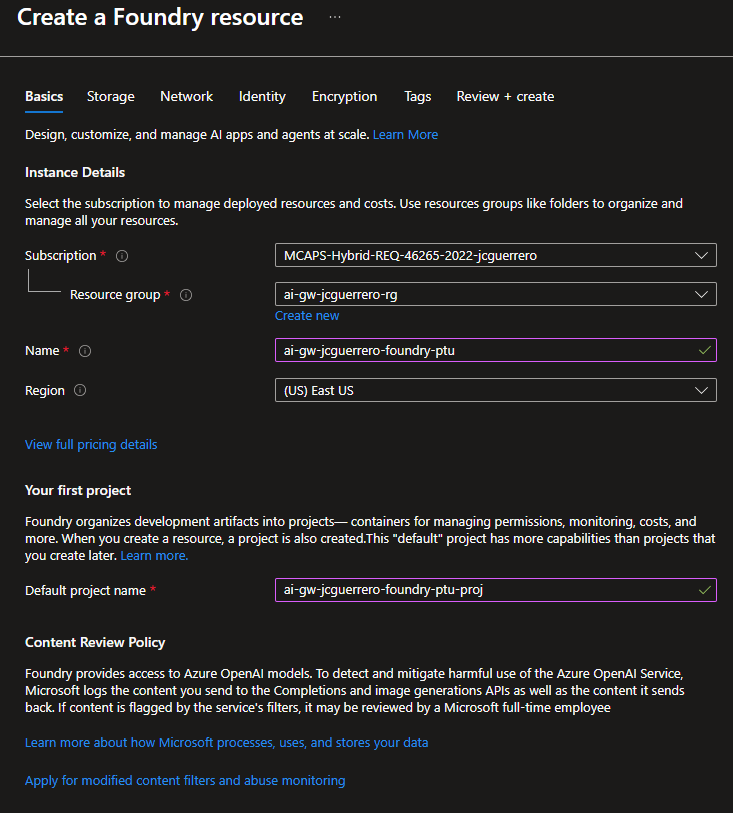
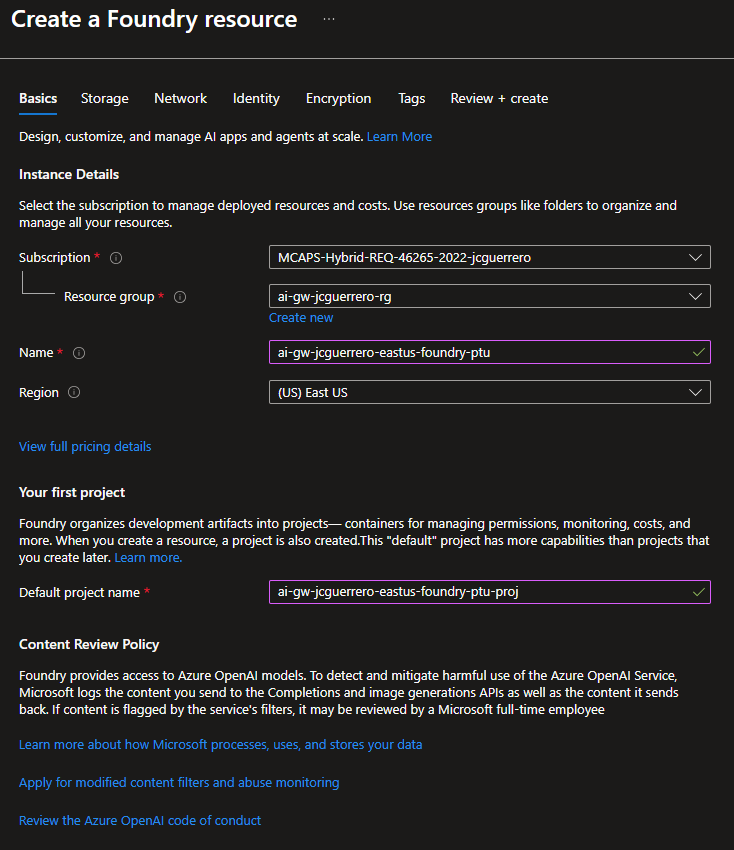
Add resources documentation for Foundry instances setup in multiple regions

diff --git a/docs/tutorial/01/resources.md b/docs/tutorial/01/resources.md
@@ -1,0 +1,190 @@
+# Create Foundry Instances
+
+## Stacks
+
+| Resource                | Primary                     | Secondary                    |
+| ----------------------- | --------------------------- | ---------------------------- |
+| Region                  | `eastus`                    | `eastus2`                    |
+| Log Analytics Workspace | `-eastus-law`               | -`eastus2-law`               |
+| App Insights            | `-eastus-appi`              | -`eastus2-appi`              |
+| Foundry Instances       | `-eastus-foundry-{purpose}` | -`eastus2-foundry-{purpose}` |
+
+## Log Analytics Workspace
+
+![LAW](../../../assets/img/resources/law.png)
+
+We will funnel of our logs into App Insights for monitoring and diagnostics, using log analytics workspace.
+
+Since Foundry will be deployed across multiple regions, it is considered best practice to create Log Analytics Workspace in each region to collect and analyze logs.
+
+For tutorial purposes, you can create only 1 Log Analytics Workspace + App Insights, however, we wanted to call it out.
+
+| Resource                | Primary       | Secondary (Optional) |
+| ----------------------- | ------------- | -------------------- |
+| Log Analytics Workspace | `-eastus-law` | -`eastus2-law`       |
+
+<table>
+  <thead>
+    <tr>
+      <th>eastus</th>
+      <th>eastus2</th>
+    </tr>
+  </thead>
+  <tbody>
+    <tr>
+      <td>
+        <ul>
+            <li>Name: <pre>ai-gw-{stack-id}-eastus-law</pre></li>
+            <li>Region: <pre>(US) East US`.- `eastus`</pre></li>
+        </ul>
+      </td>
+      <td>
+        <ul>
+            <li>Name: <pre>ai-gw-{stack-id}-eastus2-law</pre></li>
+            <li>Region: <pre>(US) East US 2`.- `eastus2`</pre></li>
+        </ul>
+      </td>
+    </tr>
+  </tbody>
+</table>
+
+### Basics
+
+![LAW - Basics](../../../assets/img/tutorial/eastus/law/Basics.png)
+
+### Review + create
+
+![LAW - Review + Create](../../../assets/img/tutorial/eastus/law/Review.png)
+
+### Snapshot
+
+You should end up with this
+
+![architecture 02](../../../assets/img/architecture/02_law_rg.png)
+
+## App Insights
+
+![appi](../../../assets/img/resources/appi.png)
+
+For each LAW, we will create an App Insights instance to collect and analyze telemetry data.
+
+| Resource     | Primary        | Secondary       |
+| ------------ | -------------- | --------------- |
+| App Insights | `-eastus-appi` | -`eastus2-appi` |
+
+If you only created 1 Log Analytics Workspace, only create 1 App Insights instance.
+
+<table>
+  <thead>
+    <tr>
+      <th>eastus</th>
+      <th>eastus2</th>
+    </tr>
+  </thead>
+  <tbody>
+    <tr>
+      <td>
+        <ul>
+            <li>Name: <pre>ai-gw-{stack-id}-eastus-appi</pre></li>
+            <li>Region: <pre>(US) East US`.- `eastus`</pre></li>
+            <li>Log Analytics Workspace: <pre>ai-gw-{stack-id}-eastus-law</pre> (created above)</li>
+        </ul>
+      </td>
+      <td>
+        <ul>
+            <li>Name: <pre>ai-gw-{stack-id}-eastus2-appi</pre></li>
+            <li>Region: <pre>(US) East US 2`.- `eastus2`</pre></li>
+            <li>Log Analytics Workspace: <pre>ai-gw-{stack-id}-eastus2-law</pre> (created above)</li>
+        </ul>
+      </td>
+    </tr>
+  </tbody>
+</table>
+
+### Basics
+
+![App Insights - Basics](../../../assets/img/tutorial/eastus/appi/Basics.png)
+
+### Snapshot
+
+![architecture 03](../../../assets/img/architecture/03_appi_rg.png)
+
+#### Resource Visualization
+
+![architecture 03](../../../assets/img/architecture/03_appi_visualizer.png)
+
+## Foundry Instances
+
+![MS Foundry](../../../assets/img/resources/foundry.png)
+
+For foundry, we will create 2 instances.
+
+1. One will represent (pre-)[P]aid [T]oken [U]sage: `ptu`
+2. The other is a [P]ay [a]s [y]ou [G]o fallback instance: `payg`
+
+| Instance | Name                                    | Region                       |
+| -------- | --------------------------------------- | ---------------------------- |
+| PTU      | `ai-gw-{stack-id}-eastus-foundry-ptu`   | `(US) East US`.- `eastus`    |
+| PAYG     | `ai-gw-{stack-id}-eastus2-foundry-payg` | `(US) East US 2`.- `eastus2` |
+
+<table>
+  <thead>
+    <tr>
+      <th>eastus</th>
+      <th>eastus2</th>
+    </tr>
+  </thead>
+  <tbody>
+    <tr>
+      <td>
+        <ul>
+            <li>Name: <pre>ai-gw-{stack-id}-eastus-foundry-ptu</pre></li>
+            <li>Region: <pre>(US) East US`.- `eastus`</pre></li>
+            <li>Default project name: <pre>ai-gw-{stack-id}-eastus-foundry-ptu-proj</pre></li>
+        </ul>
+      </td>
+      <td>
+        <ul>
+            <li>Name: <pre>ai-gw-{stack-id}-eastus2-foundry-payg</pre></li>
+            <li>Region: <pre>(US) East US 2`.- `eastus2`</pre></li>
+            <li>Default project name: <pre>ai-gw-{stack-id}-eastus2-foundry-payg-proj</pre></li>
+        </ul>
+      </td>
+    </tr>
+  </tbody>
+</table>
+
+### Basics
+
+![Foundry - PTU](../../../assets/img/tutorial/eastus/foundry/Basics.png)
+
+### Storage
+
+#### Credential storage and application logging
+
+- Application Insights: `ai-gw-{stack-id}-eastus-appi` (created above)
+
+### Network
+
+Leave as-is
+
+![Network](../../../assets/img/tutorial/eastus/foundry/Network.png)
+
+> [!WARN]
+> This is not production grade. For a guide using VPNs, see [Azure Secure Networking for Devs](https://github.com/percebus/azure-secure-networking-for-devs/)
+
+### Identity
+
+Leave as-is
+
+![Identity](../../../assets/img/tutorial/eastus/foundry/Identity.png)
+
+### Encryption
+
+Leave as-is
+
+![Encryption](../../../assets/img/tutorial/eastus/foundry/Encryption.png)
+
+### Review + create
+
+![Review + create](../../../assets/img/tutorial/eastus/foundry/ReviewCreate.png)

diff --git a/docs/tutorial/01/rg.md b/docs/tutorial/01/rg.md
@@ -6,8 +6,8 @@ A Stack Identifier is something that allows us to deploy the same Infrastructure
 
 For this tutorial, just use your username (i.e. `jcguerrero`)
 
-> ! WARN
-> ! Normally, we would add `region` to `rg`. But in this case: the RG will contain resources accross multiple regions.
+> [!WARN]
+> Normally, we would add `region` to `rg`. But in this case: the RG will contain resources accross multiple regions.
 
 ## Region(s)
 
